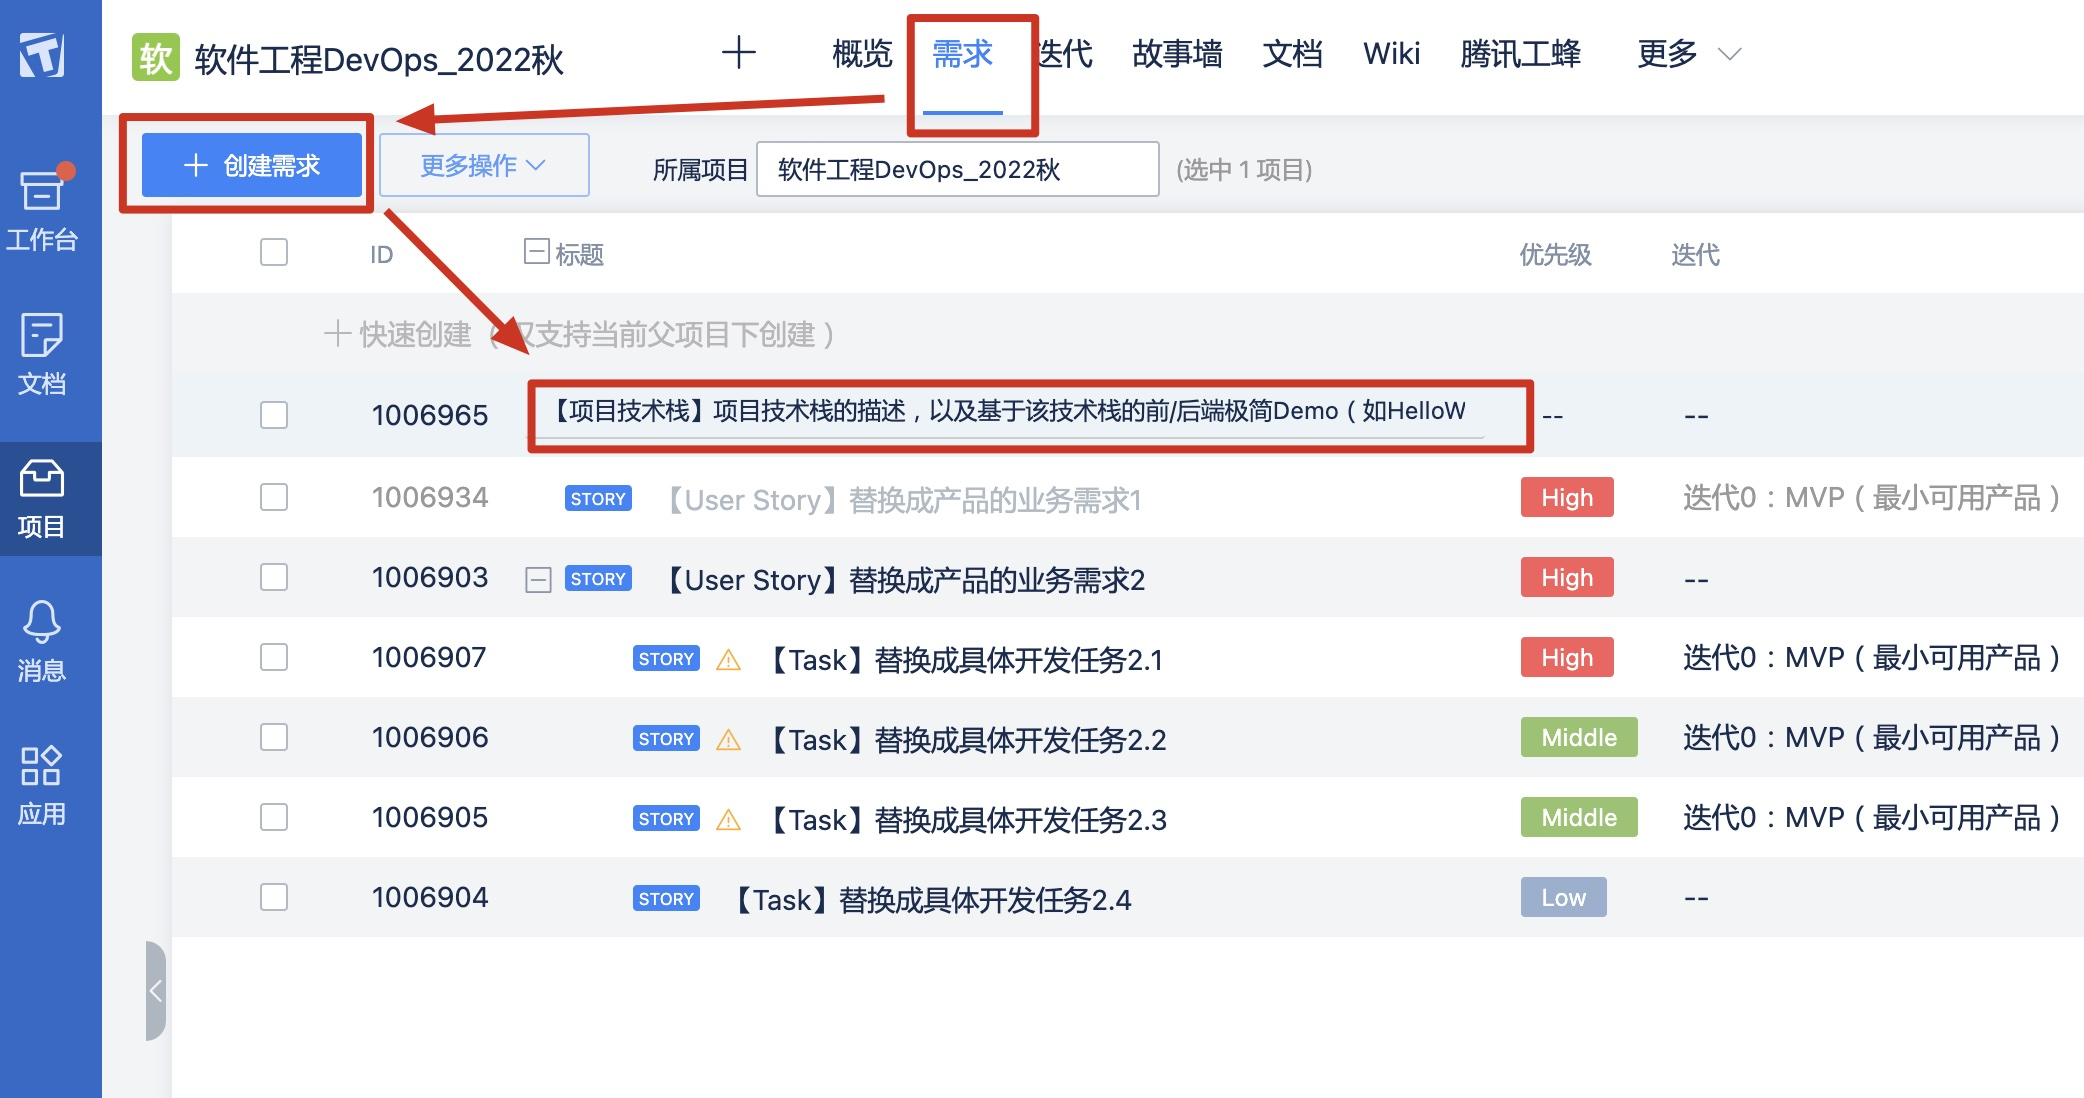
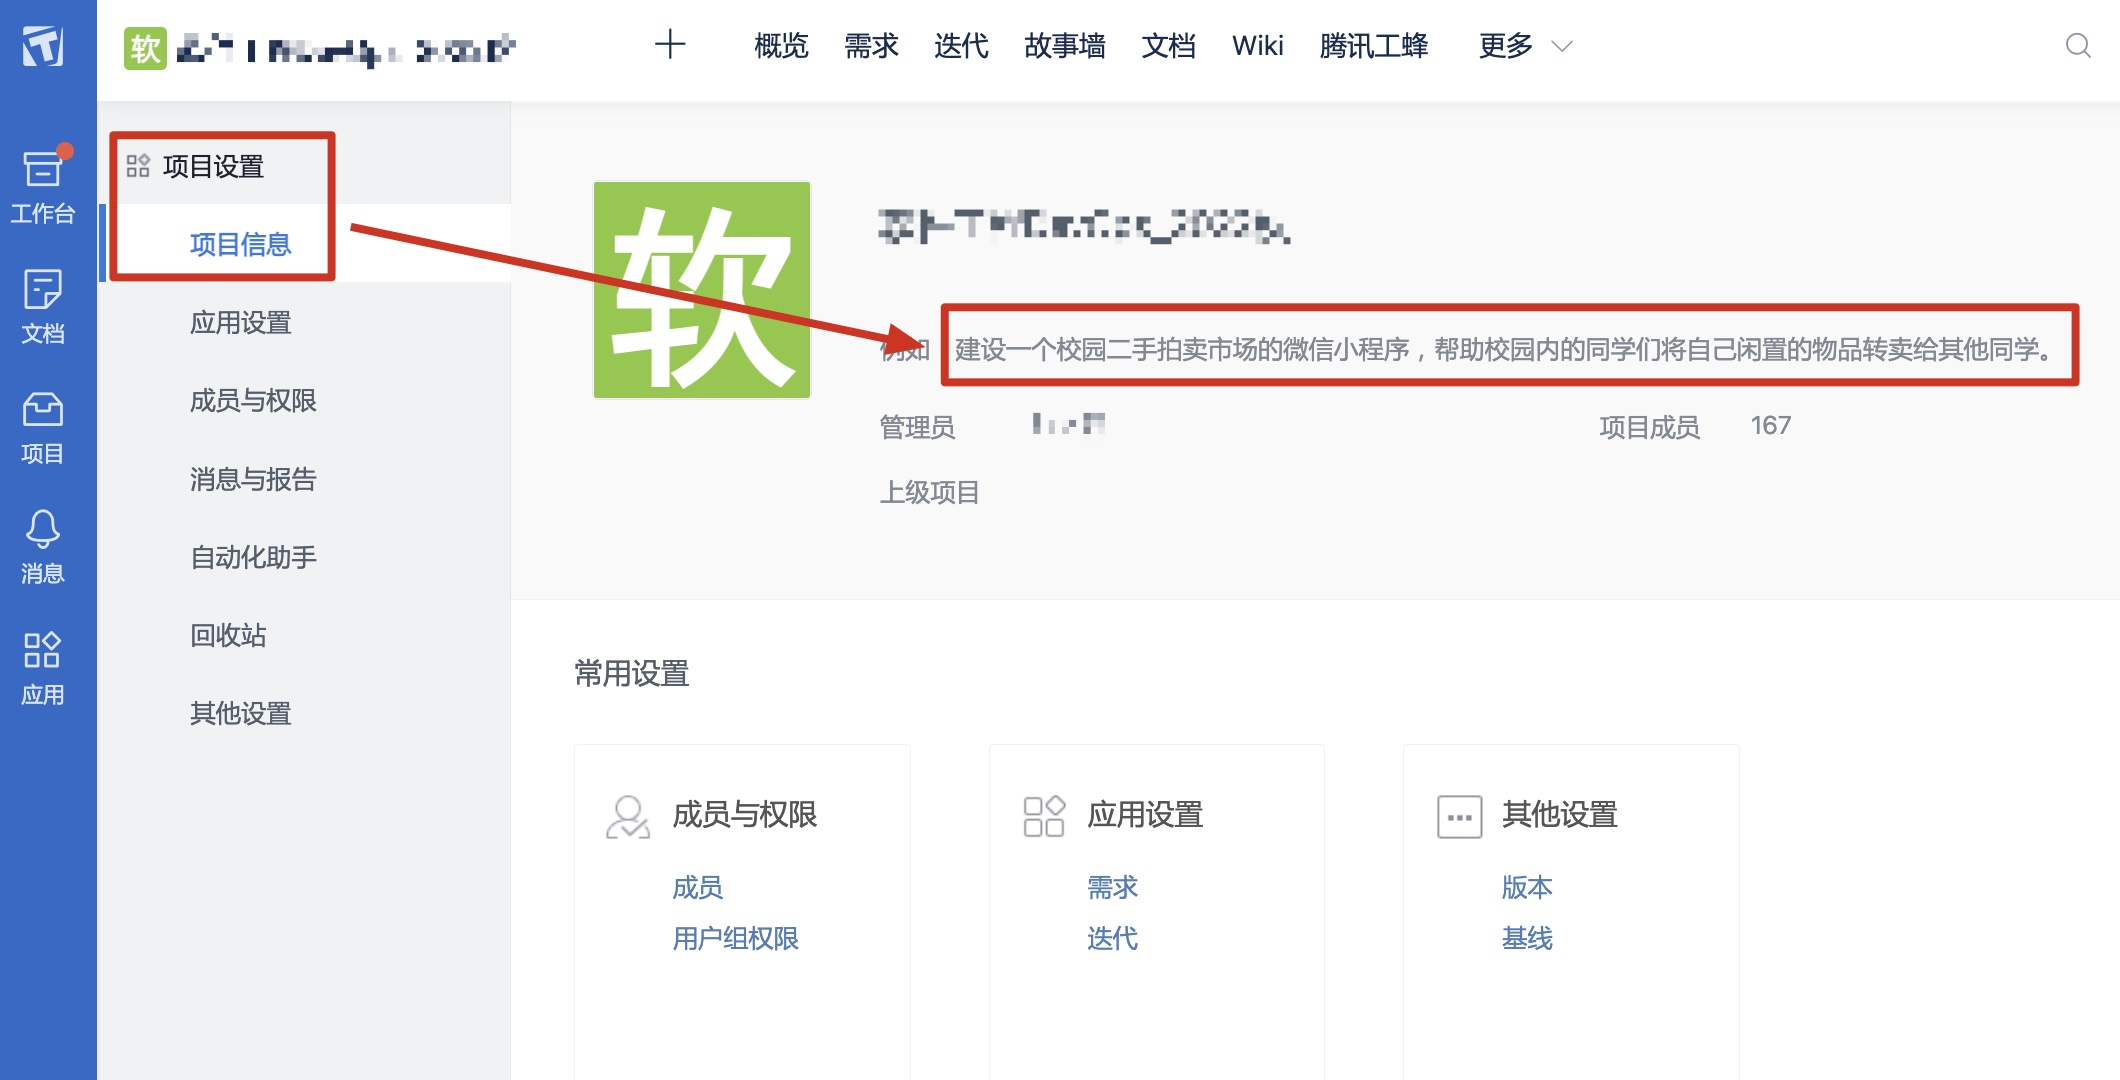
迭代0的需求定义

diff --git a/blog/2022-10-04Iterator0demo.md b/blog/2022-10-04Iterator0demo.md
@@ -8,24 +8,21 @@ author_image_url: https://avatars.githubusercontent.com/u/9105499?v=4
 tags: [Team Project]
 ---
 
-## 1）将团队项目设定为 “软件工程DevOps_2022秋” 课程项目的子项目
-![TAPD-Project1](/img/tutorial/tapd-project0.jpg)
-
-## 2）项目技术栈选型（必须同时包含前/后端技术）
+## 1）项目技术栈选型（必须同时包含前/后端技术）
 团队讨论并确定项目前/后端程序的技术栈，在[TAPD](https://www.tapd.cn/)的团队项目中增加技术栈的需求描述，点击“复制源码关键字”在后面的步骤中使用。
 ![TAPD-Project2](/img/tutorial/tapd-project2.jpg)
 
-## 3）在[腾讯工蜂](https://code.tencent.com/) 中创建基于所选技术栈的极简项目（如HelloWorld）分枝
+## 2）在[腾讯工蜂](https://code.tencent.com/) 中创建基于所选技术栈的极简项目（如HelloWorld）分枝
 ![Tgit-HelloWorld](/img/tutorial/tgit-helloworld.jpg)
 
-## 4）将[腾讯工蜂](https://code.tencent.com/) 的源码提交与[TAPD](https://www.tapd.cn/)的需求关联
+## 3）将[腾讯工蜂](https://code.tencent.com/) 的源码提交与[TAPD](https://www.tapd.cn/)的需求关联
 1. 每次提交项目源码时（可以自行选择喜欢的Git客户端），将第2步中复制的“源码关键字”添加在提交时的描述内容后面
 ![Tgit-project3](/img/tutorial/tapd-project3.jpg)
 
 2. 在[TAPD](https://www.tapd.cn/)中检查关联是否生效
 ![Tgit-project4](/img/tutorial/tapd-project4.jpg)
 
-## 5）完成极简项目的开发，在互联网环境中发布极简Demo
+## 4）完成极简项目的开发，在互联网环境中发布极简Demo
 - 要求能通过互联网访问极简Demo（**非常重要‼**），发布时可能会遇到云服务、域名、认证等步骤，**请提前准备**；
 - 将极简Demo的访问地址填写在[TAPD](https://www.tapd.cn/)对应需求的评论中（见上图）。
 

diff --git a/blog/2022-09-21Iterator0.md b/blog/2022-09-21Iterator0.md
@@ -8,12 +8,19 @@ author_image_url: https://avatars.githubusercontent.com/u/9105499?v=4
 tags: [Team Project]
 ---
 
-## 1）需求（用户故事）定义与任务分配
+## 1）将团队项目设定为 “软件工程DevOps_2022秋” 课程项目的子项目
+![TAPD-Project0](/img/tutorial/tapd-project0.jpg)
+
+## 2）用1-2句话介绍团队项目的功能和目标
+将团队项目的功能和目标填写在[TAPD](https://www.tapd.cn/)项目的描述里，例如：
+![TAPD-Project1](/img/tutorial/tapd-project1.jpg)
+
+## 3）需求（用户故事）定义与任务分配
 1. 项目团队定义核心功能需求和子需求，同时指定功能需求的设计与开发负责人（处理人)，要求每个组员都进行前后端功能的全栈开发
 ![TAPD-UserStory](/img/tutorial/tapd-UserStory0.jpg)
 
 2. 撰写每个功能需求的详细信息：包括【用户故事（User Story）】（使用句式：作为 ...，我希望 ...，以便 ...）和【验收条件/标准】两部分内容，例如：
 ![TAPD-UserStory](/img/tutorial/tapd-UserStory1.jpg)
 
-## 2）创建 "迭代0：MVP（最小可用产品）" 的功能需求和负责人
+## 4）创建 "迭代0：MVP（最小可用产品）" 的功能需求和负责人
 ![TAPD-Iterator0](/img/tutorial/tapd-Iterator0.jpg)
